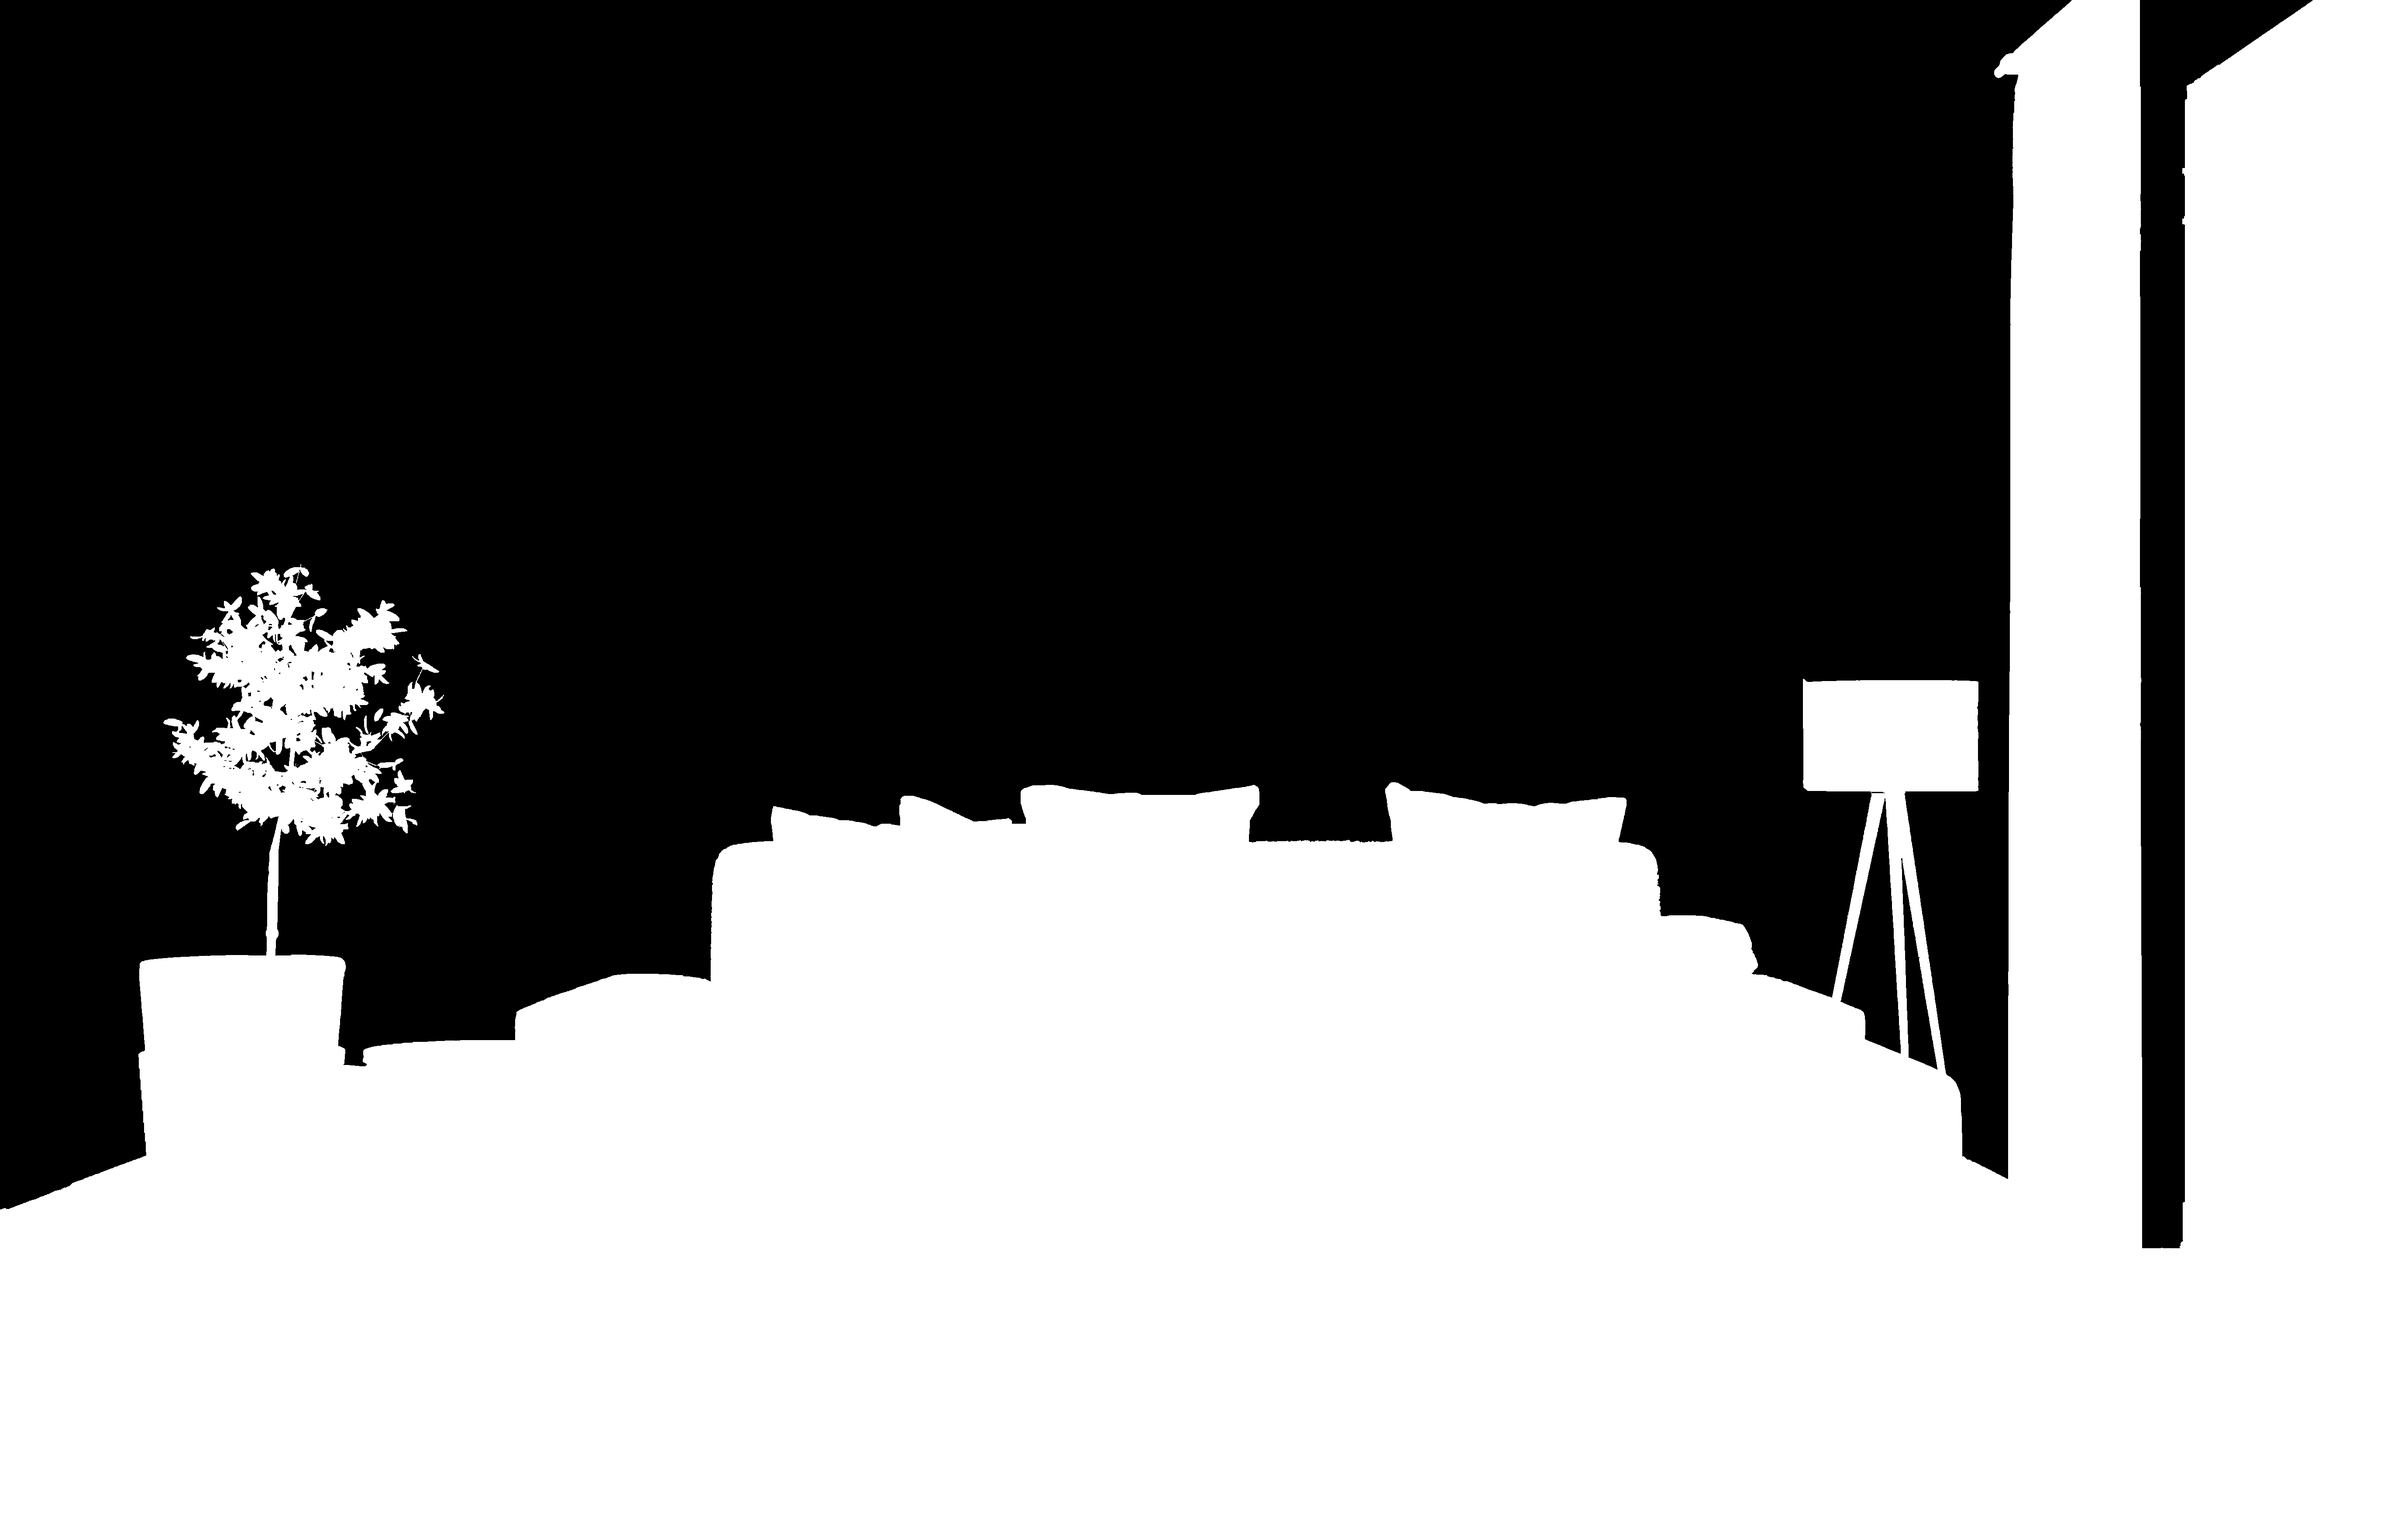
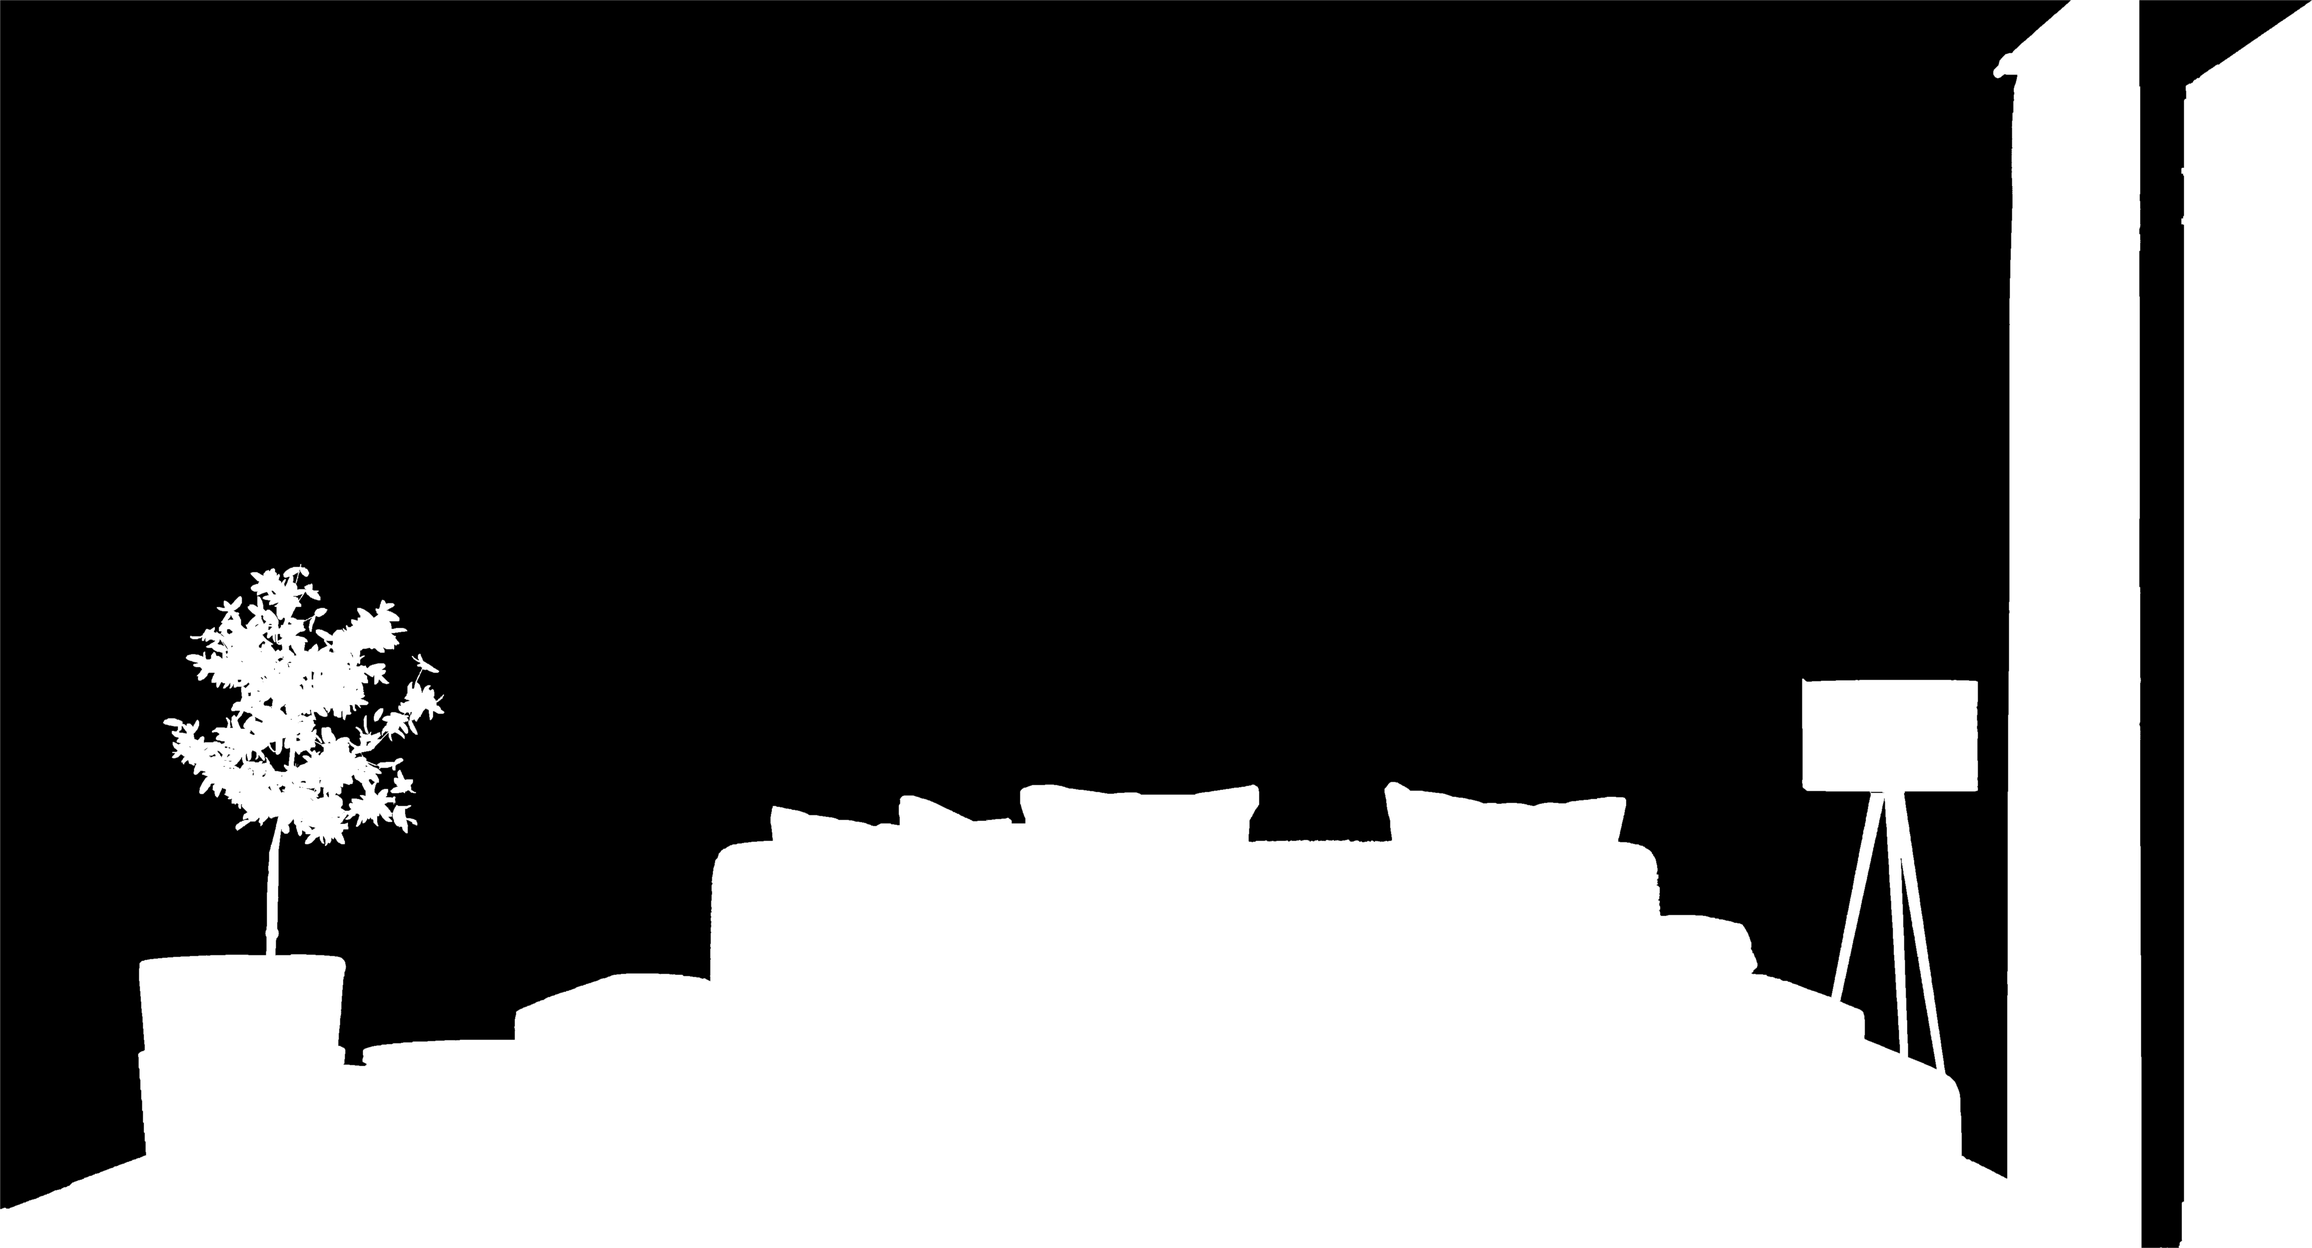
Színtervező: elmosott maszk beolvasása + prémium színátmenet + z-index
- Az új, Gaussian-blur élű maszk került a helyes útra
  (public/images/visualizer/interior/living-room-mask.png); a gyökérbeli
  feltöltött másolat és a régi éles maszk törölve.
- A színréteg finom átmenetet kap: transition: background-color 0.4s
  ease-in-out -> színváltáskor a fal elegánsan úszik át az új árnyalatba.
- Z-index rendezve: a színréteg zIndex:10 (base fölött), a nyilak és a
  szín-badge z-20 (a színréteg fölött); a színréteg pointer-events:none,
  így nem blokkolja a kattintást.

Changed region(s): [[0.0, 0.0, 0.9966, 1.0]]

diff --git a/src/components/ColorVisualizer.tsx b/src/components/ColorVisualizer.tsx
@@ -107,7 +107,7 @@ export default function ColorVisualizer() {
                     {selected && (
                       <div
                         aria-hidden="true"
-                        className="pointer-events-none absolute inset-0 transition-colors duration-300"
+                        className="pointer-events-none absolute inset-0"
                         style={{
                           backgroundColor: selected.hex,
                           mixBlendMode: 'multiply',
@@ -119,6 +119,10 @@ export default function ColorVisualizer() {
                           maskPosition: 'center',
                           WebkitMaskRepeat: 'no-repeat',
                           maskRepeat: 'no-repeat',
+                          // Prémium átmenet: színváltáskor a fal elegánsan úszik át.
+                          transition: 'background-color 0.4s ease-in-out',
+                          // A base fotó fölött, de a vezérlők (nyilak, badge) alatt.
+                          zIndex: 10,
                         }}
                       />
                     )}
@@ -130,7 +134,7 @@ export default function ColorVisualizer() {
                           type="button"
                           onClick={prevImage}
                           aria-label="Előző kép"
-                          className="absolute left-3 top-1/2 flex h-10 w-10 -translate-y-1/2 items-center justify-center rounded-full bg-white/90 text-gray-800 shadow-md transition hover:bg-white"
+                          className="absolute left-3 top-1/2 z-20 flex h-10 w-10 -translate-y-1/2 items-center justify-center rounded-full bg-white/90 text-gray-800 shadow-md transition hover:bg-white"
                         >
                           <ChevronLeft className="h-5 w-5" />
                         </button>
@@ -138,7 +142,7 @@ export default function ColorVisualizer() {
                           type="button"
                           onClick={nextImage}
                           aria-label="Következő kép"
-                          className="absolute right-3 top-1/2 flex h-10 w-10 -translate-y-1/2 items-center justify-center rounded-full bg-white/90 text-gray-800 shadow-md transition hover:bg-white"
+                          className="absolute right-3 top-1/2 z-20 flex h-10 w-10 -translate-y-1/2 items-center justify-center rounded-full bg-white/90 text-gray-800 shadow-md transition hover:bg-white"
                         >
                           <ChevronRight className="h-5 w-5" />
                         </button>
@@ -147,7 +151,7 @@ export default function ColorVisualizer() {
 
                     {/* Aktuális szín badge a képen */}
                     {selected && (
-                      <div className="absolute bottom-3 left-3 flex items-center gap-2 rounded-full bg-white/90 px-3 py-1.5 text-sm font-semibold text-gray-800 shadow-md backdrop-blur">
+                      <div className="absolute bottom-3 left-3 z-20 flex items-center gap-2 rounded-full bg-white/90 px-3 py-1.5 text-sm font-semibold text-gray-800 shadow-md backdrop-blur">
                         <span
                           className="inline-block h-4 w-4 rounded-full ring-1 ring-black/10"
                           style={{ backgroundColor: selected.hex }}
